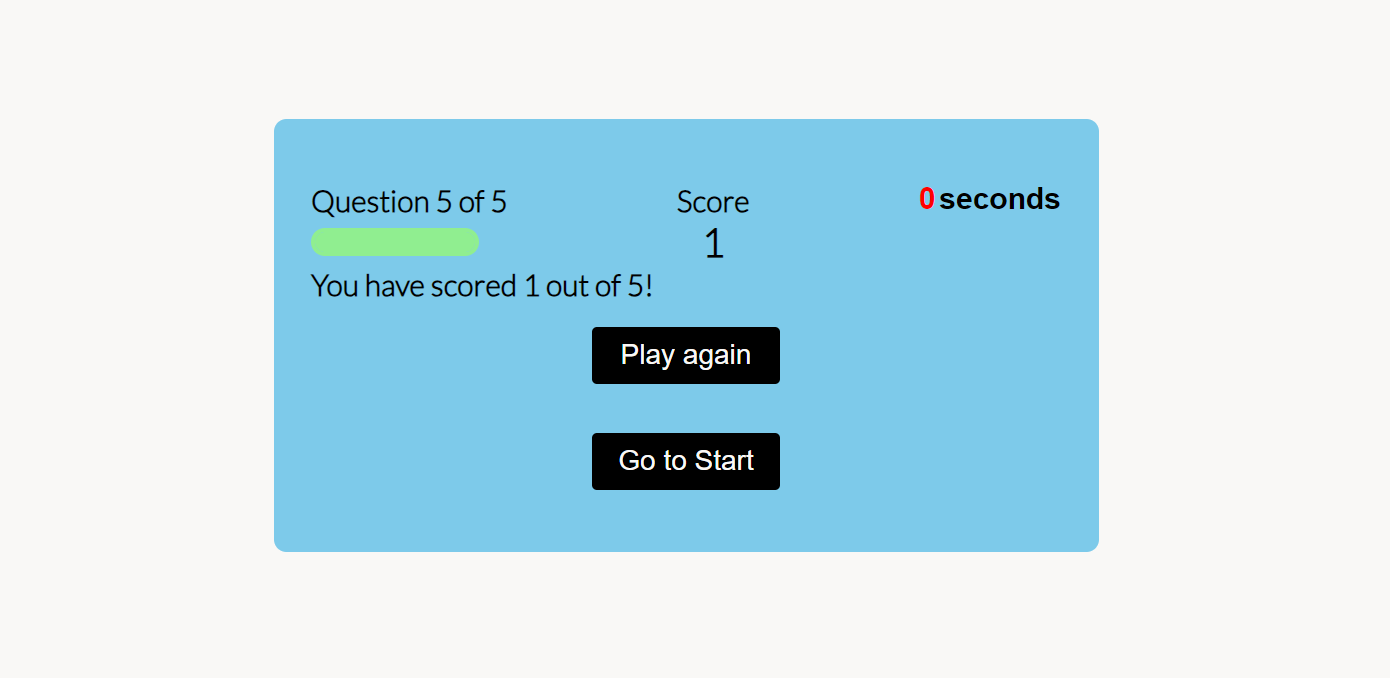
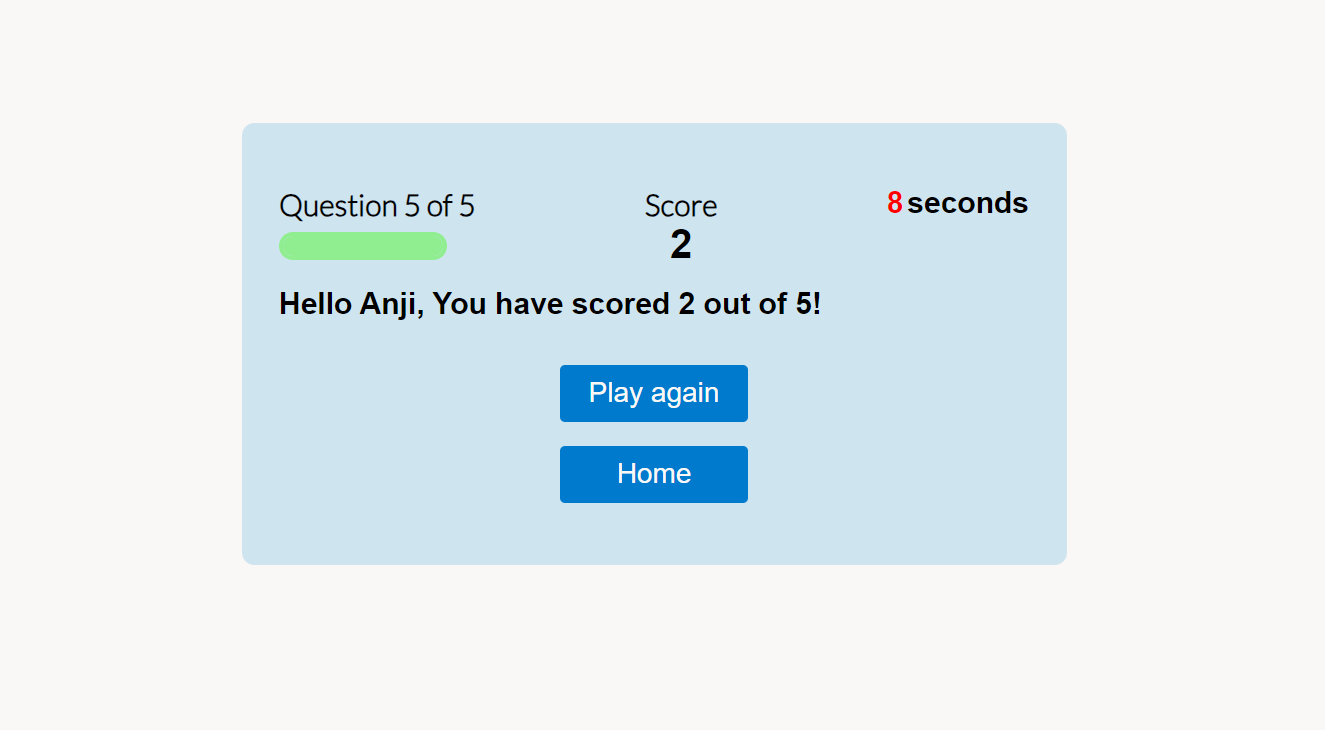
Modify the End the quiz content of the ReadMe file

diff --git a/README.md b/README.md
@@ -7,6 +7,8 @@ This website was developed to showcase my ability to design and create a static 
 Quiz Saga is a multiple-choice online game that is engaging and educational. Players can test their knowledge in different areas while having fun. 
 
 # Table of Contents
+- [Qize Saga](#qize-saga)
+  - [Code Institute - Second Milestone Project: JavaScript Essentials Portfolio Project.](#code-institute---second-milestone-project-javascript-essentials-portfolio-project)
 - [Table of Contents](#table-of-contents)
   - [Demo](#demo)
     - [A live demo to the website can be found here](#a-live-demo-to-the-website-can-be-found-here)
@@ -131,9 +133,9 @@ _Main color palette_
 
 
 - **End the quiz**
-  - At the end of the game, the player can see the total score he or she has scored and two buttons.
-  - _Play again:_ Direct the player to play the quiz again. Will provide five new questions for the user.
-  - _Go to Start:_ Go to the start page, where users can start the game as new users.
+  - At the end of the game, the player can see the total score that has been scored with the username the player has given and two buttons.
+  - _Play again:_ Direct the player to play the quiz again. Will provide five new questions for the user.
+  - _Home:_ Go to the start page, where users can start the game as new users.
 
 
 ![End of qize](assets/readme-assets/endQuiz.PNG)
